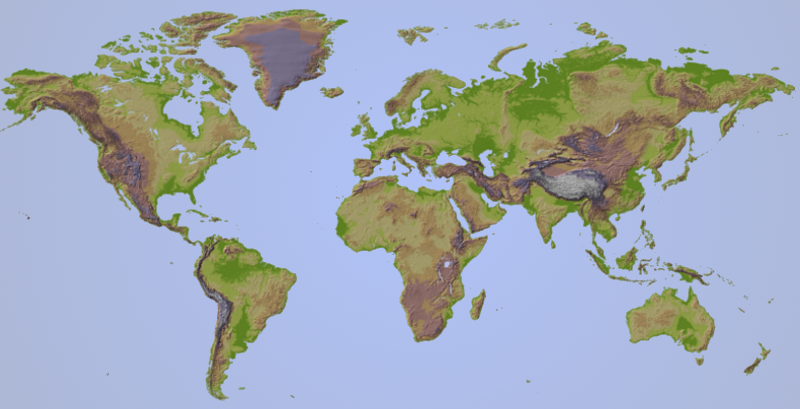
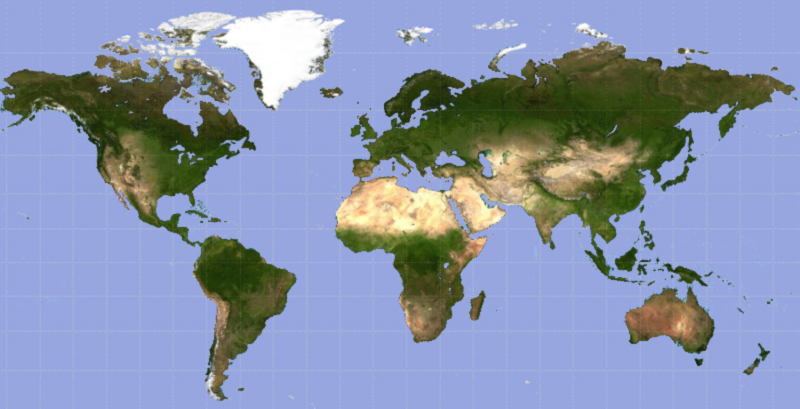
New timezones background is a satellite image

diff --git a/usr/lib/live-installer/timezones.py b/usr/lib/live-installer/timezones.py
@@ -8,11 +8,16 @@ import glib
 from commands import getoutput
 from collections import defaultdict, namedtuple
 from datetime import datetime, timedelta
-from PIL import Image
+from PIL import Image, ImageEnhance
+
 
 TIMEZONE_RESOURCES = '/usr/share/live-installer/timezone/'
 CC_IM = Image.open(TIMEZONE_RESOURCES + 'cc.png').convert('RGB')
 BACK_IM = Image.open(TIMEZONE_RESOURCES + 'bg.png').convert('RGB')
+BACK_ENHANCED_IM = reduce(lambda im, mod: mod[0](im).enhance(mod[1]),
+                          ((ImageEnhance.Color, 2),
+                           (ImageEnhance.Contrast, 1.3),
+                           (ImageEnhance.Brightness, 0.7)), BACK_IM)
 DOT_IM = Image.open(TIMEZONE_RESOURCES + 'dot.png').convert('RGBA')
 
 def to_float(position, wholedigits):
@@ -164,7 +169,7 @@ def select_timezone(tz):
         im = BACK_IM.copy()
         if overlay:
             overlay_im = Image.open(TIMEZONE_RESOURCES + overlay)
-            im.paste(overlay_im, overlay_im)
+            im.paste(BACK_ENHANCED_IM, overlay_im)
             im.paste(DOT_IM, (int(tz.x - DOT_IM.size[1]/2), int(tz.y - DOT_IM.size[0]/2)), DOT_IM)
         return gtk.gdk.pixbuf_new_from_data(im.tobytes(), gtk.gdk.COLORSPACE_RGB,
                                             False, 8, im.size[0], im.size[1], im.size[0] * 3)
